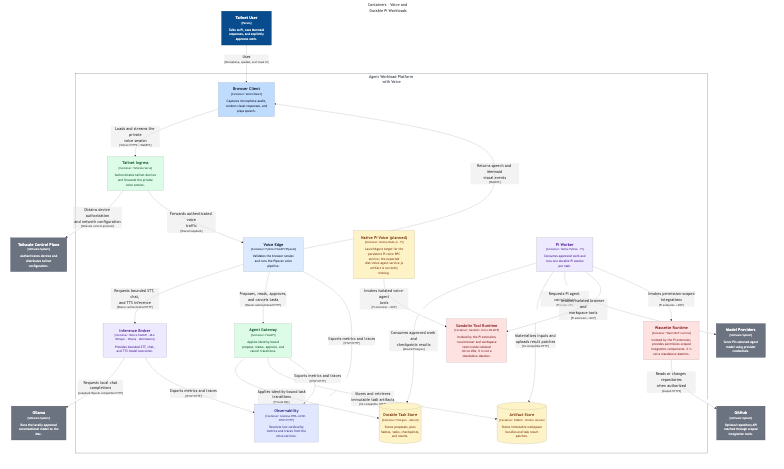
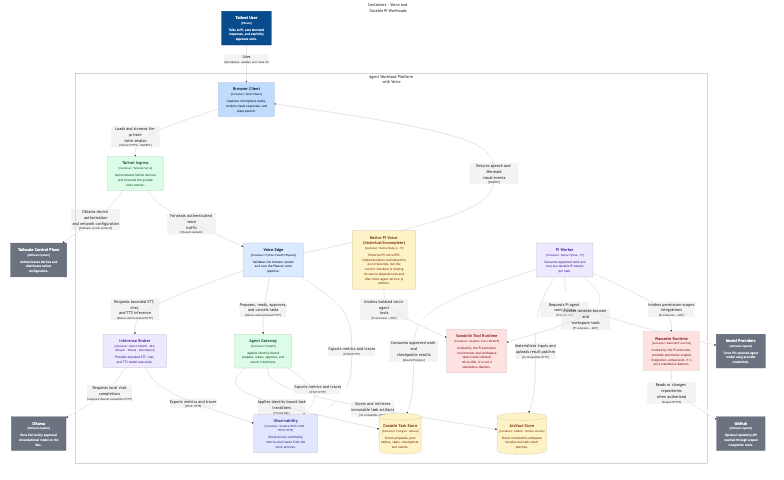
clarify historical Pi transcript implementation

diff --git a/workloads/pipecat-mlx-voice/docs/architecture/IMPLEMENTATION-GAPS.md b/workloads/pipecat-mlx-voice/docs/architecture/IMPLEMENTATION-GAPS.md
@@ -8,7 +8,7 @@ implemented.
 
 | Element | Evidence | Impact | Required resolution |
 |---|---|---|---|
-| Native Pi Voice | `scripts/host-pi-voice.sh` executes `dist/voice-agent-service.js`; `scripts/install-host-services.sh` builds and deploys `runtimes/gondolin-browser`, but that runtime contains no `voice-agent-service.ts` or generated equivalent. | The host supervisor cannot start the Pi voice RPC service on a fresh checkout. `make up` can converge the broker and worker checks only if an external artifact happens to provide that file. | Add the service source and its dependencies to `runtimes/gondolin-browser`, or remove the service from the deployment until it is implemented. Add a build assertion for the expected output. |
+| Native Pi Voice | `scripts/host-pi-voice.sh` executes `dist/voice-agent-service.js`. The source existed in historical commit `cf284d1` and implemented Pi transcript state plus `/v1/transcript`, but it is absent from the current runtime snapshot after `38619b3`; its historical source also referenced missing `gondolin-workspace.ts` and undeclared Pi/typebox dependencies. | The host supervisor cannot start the Pi voice RPC service on a fresh checkout. The current browser transcript therefore comes from the Pipecat context, not Pi's transcript projection. | Restore and complete the historical service (including its workspace adapter and declared dependencies), or remove the Pi voice LaunchAgent and Pi transcript UI. The install script now fails explicitly when the expected artifact is missing. |
 
 ## Corrected model gaps
 

diff --git a/workloads/pipecat-mlx-voice/docs/architecture/README.md b/workloads/pipecat-mlx-voice/docs/architecture/README.md
@@ -51,7 +51,7 @@ sandbox.
 | Agent Gateway | `server/agent_gateway.py`; `gateway/Containerfile` |
 | Observability | `server/telemetry.py`; Compose `otel-lgtm` service |
 | Durable Task Store | `server/orchestrator/`; `server/sql/`; Compose Postgres service |
-| Native Pi Voice | `scripts/host-pi-voice.sh`; expected `dist/voice-agent-service.js` (currently missing; see audit) |
+| Native Pi Voice | Historical `runtimes/gondolin-browser/voice-agent-service.ts` in `cf284d1`; current artifact/dependencies are missing (see audit) |
 | Pi Worker | `server/orchestrator/worker.py`; worker LaunchAgent |
 | Host service supervisor | `scripts/host-services.sh`; `deploy/launchd/com.sathish.pipecat-host-services.plist` |
 | Gondolin and Wassette | `runtimes/gondolin-browser/pi-extension.ts` and its MCP clients |
